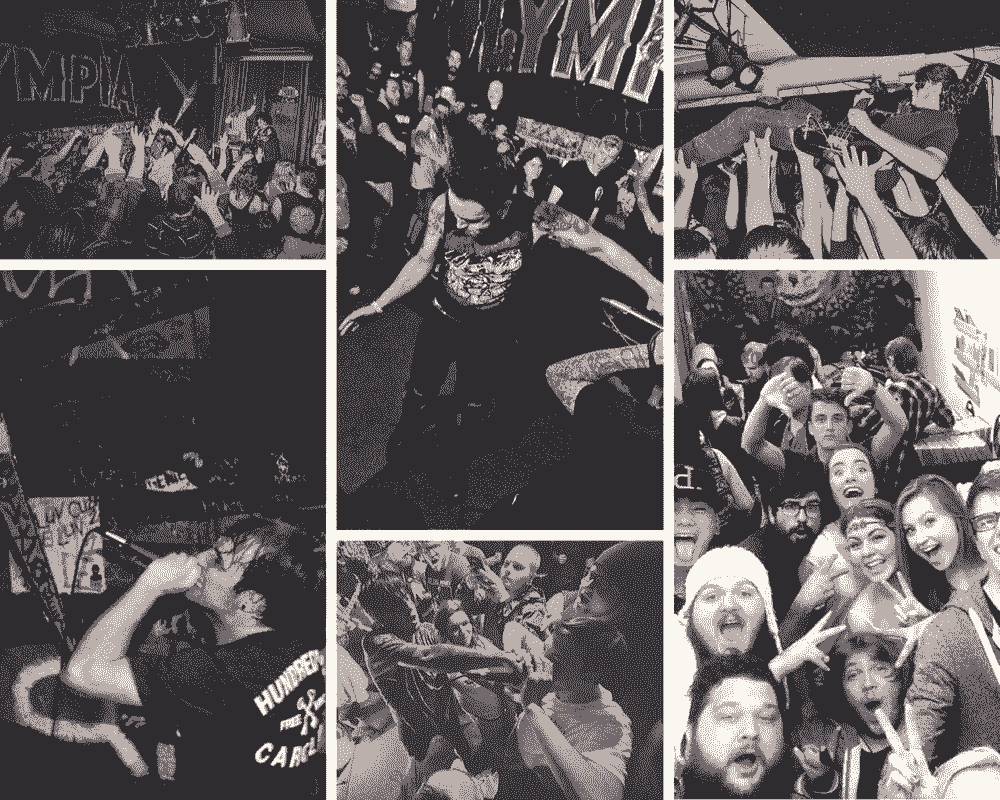
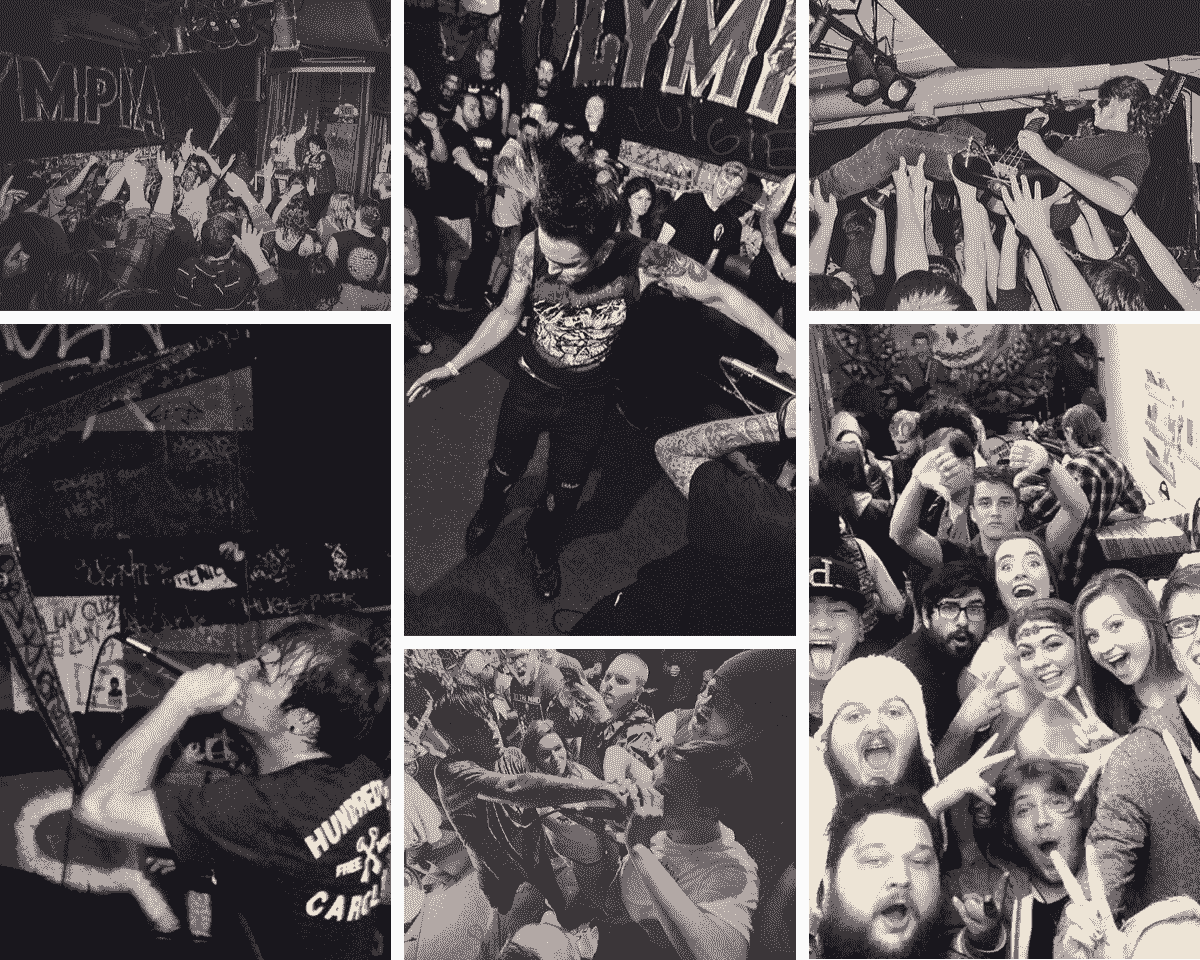
fixes, cleanup, fin

diff --git a/index.html b/index.html
@@ -100,7 +100,7 @@
       <section class='pt-3'>
         <div class='container p-0'>
           <div class="row">
-            <div class="col-md-4 mb-4 pr-0 pl-0">
+            <div class="col-md-4 mb-4 pl-0">
               <div class="card h-100">
                 <h4 class="card-header homeCards">What We Do</h4>
                 <a href="#"><img class="card-img-top" src="images/1-1.png" alt=""></a>
@@ -122,7 +122,7 @@
                 </div>
               </div>
             </div>
-            <div class="col-md-4 mb-4">
+            <div class="col-md-4 mb-4 pr-0">
               <div class="card h-100">
                 <h4 class="card-header homeCards">Notable Past Shows</h4>
                 <a href="#"><img class="card-img-top" src="images/1-3.png" alt=""></a>

diff --git a/events.html b/events.html
@@ -77,7 +77,7 @@
       </aside>
     </header>
       <article class='container py-3'>
-        <section class='container-fluid img-fluid eventsbg rounded m-0 p-0'>
+        <section class='eventsbg rounded m-0 p-0'>
           <div class='row m-0 p-0'>
             <div class='col m-0 p-0'>
               <div class='container centerContent m-0 p-0'>

diff --git a/css/style.css b/css/style.css
@@ -119,7 +119,7 @@ i:hover {
 }
 
 .eventsbg {
-    background: url(../images/collage-min.png) no-repeat;
+    background: url(../images/collage-min.png) center center no-repeat;
     background-size: cover;
     width: 100%;
     padding-top: 10px;
